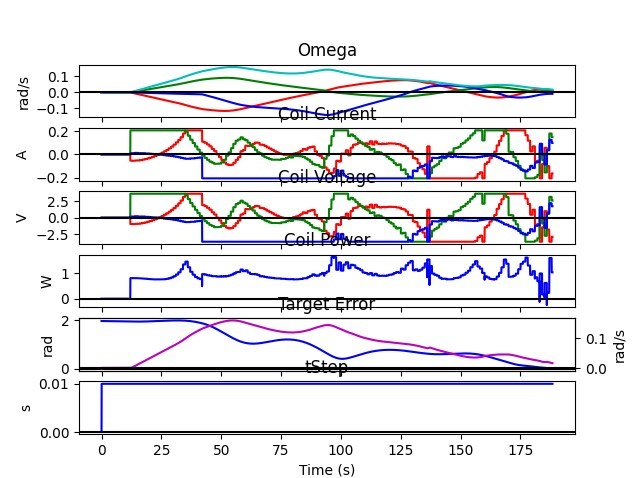
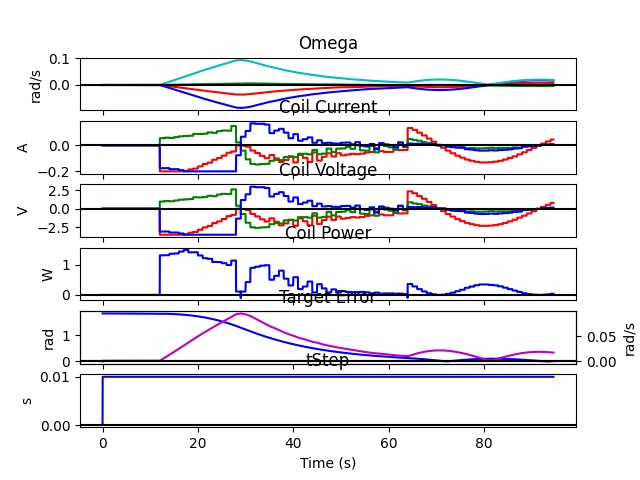
Updated attitude control images

Changed region(s): [[0.03, 0.0586, 0.9905, 0.9958], [0.03, 0.8201, 0.06, 0.8787]]

diff --git a/projects/attitude determination.html b/projects/attitude determination.html
@@ -1,0 +1,78 @@
+<!DOCTYPE html>
+<html>
+<head>
+     <!-- Latest compiled and minified CSS -->
+    <!-- <link rel="stylesheet" href="https://maxcdn.bootstrapcdn.com/bootstrap/3.4.1/css/bootstrap.min.css"> -->
+
+    <!-- jQuery library -->
+    <!-- <script src="https://ajax.googleapis.com/ajax/libs/jquery/3.5.1/jquery.min.js"></script> -->
+
+    <!-- Latest compiled JavaScript -->
+    <!-- <script src="https://maxcdn.bootstrapcdn.com/bootstrap/3.4.1/js/bootstrap.min.js"></script>  -->
+
+    <link href="https://cdn.jsdelivr.net/npm/bootstrap@5.1.0/dist/css/bootstrap.min.css" rel="stylesheet" integrity="sha384-KyZXEAg3QhqLMpG8r+8fhAXLRk2vvoC2f3B09zVXn8CA5QIVfZOJ3BCsw2P0p/We" crossorigin="anonymous">
+
+
+    <link rel="stylesheet" href="../stylesheet.css">
+
+
+    <title>Travers Sorenson</title>
+    <meta charset="utf-8">
+
+    <link rel='icon' href='../project images/favicon.png' type='image/x-icon' sizes="16x16" />
+    <meta name="viewport" content="width=device-width, initial-scale=1">
+</head>
+
+<body>
+    <nav class="navbar navbar-expand-lg navbar-light bg-light">
+        <div class="container-fluid">
+            <a href="../index.html">
+                <button type="button" class="btn" href="../index.html"><h1 class="display-3 card-title">Travers Sorenson</h1></button>
+            </a>
+            <a href="../about/about.html">
+                <button type="button" class="btn btn-outline-secondary"><h2 class="display-6">About</h2></button>
+            </a>
+            
+        </div>
+    </nav>
+    <div class="container-fluid">
+        <div class="row descRow">
+            <div class="col-xs-12 col-sm-6">
+                <h2 class="display-6 descTitle">
+                    Cougs in Space Club: Cubesat Attitude Determination System
+                </h2>
+                <h3>
+                    Skills: [Embedded Systems, Mbed, C++, Kalman Filters]
+                </h3>
+
+            </div>
+            <div class="col-xs-12 col-sm-6">
+                <img src="../project images/Attitude Control/attitude control gif.gif" class="mx-auto d-block" style="width: 70%; margin: 5%;">
+            </div>
+        </div>
+        <div class="row descRow">
+            <div class="col-xs-12 col-sm-12">
+                <p class="descP">
+                    
+
+                </p>
+            </div>
+            <div class="col-xs-12 col-sm-12 ">
+
+                <img src="../project images/Attitude Control/simulink screenshot.png" class="mx-auto d-block" style="width: 50%; margin: 5%;">
+                <img src="../project images/Attitude Control/Plots.jpg" class="mx-auto d-block" style="width: 50%; margin: 5%;">
+
+            </div>
+            <div class="col-xs-12 col-sm-12">
+                <p class="descP">
+                    
+                </p>
+                <br>
+                    <br>
+                    <br>
+                    <br>
+                    <br>
+            </div>
+        </div>
+    </div>
+</body>

diff --git a/projects/attitude control.html b/projects/attitude control.html
@@ -47,7 +47,7 @@
 
             </div>
             <div class="col-xs-12 col-sm-6">
-                <img src="../project images/Attitude Control/attitude control gif.gif" class="mx-auto d-block" style="width: 70%; margin: 5%;">
+                <img src="../project images/Attitude Control/sim plot 2.gif" class="mx-auto d-block" style="width: 70%; margin: 5%;">
             </div>
         </div>
         <div class="row descRow">
@@ -71,22 +71,20 @@
             <div class="col-xs-12 col-sm-12 ">
 
                 <img src="../project images/Attitude Control/simulink screenshot.png" class="mx-auto d-block" style="width: 50%; margin: 5%;">
-                <img src="../project images/Attitude Control/Plots.jpg" class="mx-auto d-block" style="width: 50%; margin: 5%;">
 
             </div>
             <div class="col-xs-12 col-sm-12">
                 <p class="descP">
-                    The plot generated by the most recent version of the model can be seen above. The target, a point on the earth, is shown in 
+                    The 3D plot generated by the most recent version of the model can be seen above next to the title. The target, a point on the earth, is shown in 
                     blue, while the camera's direction can be seen in yellow. The yellow trace is the path the camera took to point at the 
                     target. Other vectors are also shown, but I hid their traces for readability (with the exception of the Earth Magnetic 
                     Field vector and Target vector, which are updated using orbital propagation in this model). The series of plots shown above
                      are for a different run of the simulation.
                 </p>
-                <br>
-                    <br>
-                    <br>
-                    <br>
-                    <br>
+            </div>
+            <div class="col-xs-12 col-sm-12 ">
+                <img src="../project images/Attitude Control/Plots.jpg" class="mx-auto d-block" style="width: 50%; margin: 5%;">
+
             </div>
         </div>
     </div>
